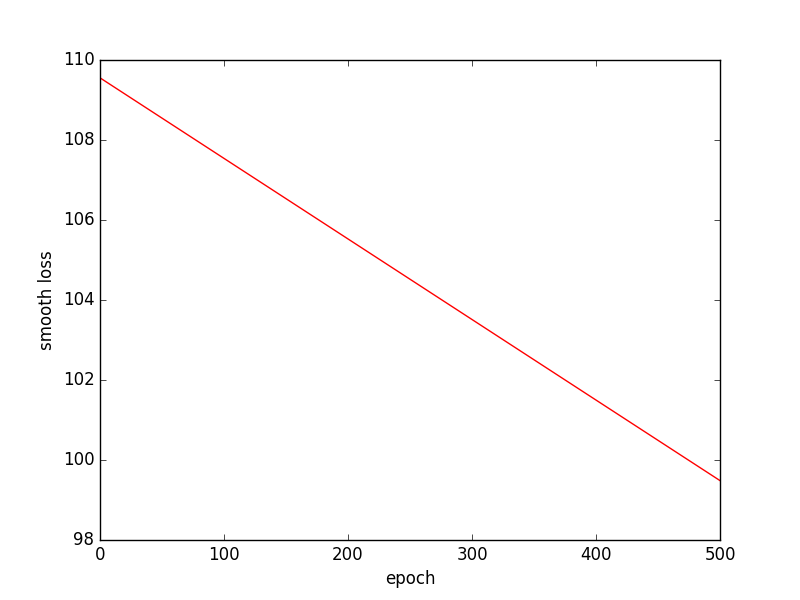
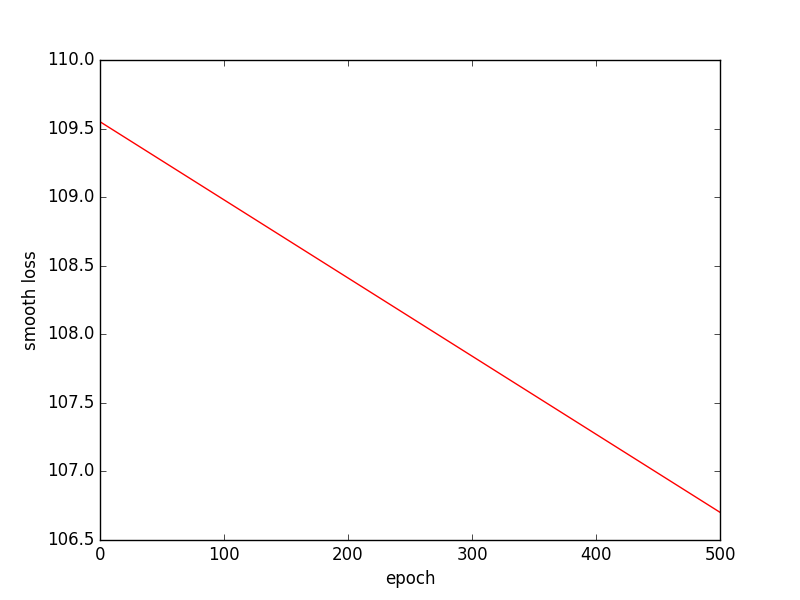
NEW

diff --git a/assignment4.py b/assignment4.py
@@ -1,5 +1,6 @@
 import numpy as np
 import matplotlib.pyplot as plt
+import time
 # IMPORT DATA IS D * 1
 with open('goblet_book.txt','r') as f:
     data = f.read()
@@ -7,6 +8,7 @@ with open('goblet_book.txt','r') as f:
 m = 100
 d = 80
 MAX_EPOCH = 100
+
 def give_dictionary(data):
     dictionary = {}
     inverse_dictionary = {}
@@ -18,25 +20,35 @@ def give_dictionary(data):
         inverse_dictionary[value] = key
     return dictionary, inverse_dictionary
 
-def one_hot(dictionary, data, start, Parameters):  # Will not give the whole one-hoted list 80 * 1100000!
+def one_hot_label(dictionary, data, Parameters):  # Will not give the whole one-hoted list 80 * 1100000!
     len_dictionary = len(dictionary)
-    one_hot_label_x = np.zeros([len_dictionary, Parameters.seq_len])
-    one_hot_label_y = np.zeros([len_dictionary, Parameters.seq_len])
+    one_hot_label_x = np.zeros([len_dictionary, len(list(data))-1])
+    one_hot_label_y = np.zeros([len_dictionary, len(list(data))-1])
     data = list(data)
-    for i in range(start, start + Parameters.seq_len):
-        value = dictionary[data[i]]
-        one_hot_label_x[int(value), i-start] = 1
-    for j in range(start+1, start+Parameters.seq_len + 1):
-        value = dictionary[data[j]]
-        one_hot_label_y[int(value), j-start-1] = 1
-    return one_hot_label_x,  one_hot_label_y, len_dictionary
+    for i in range(len(list(data))-1):
+        value_x = dictionary[data[i]]
+        one_hot_label_x[int(value_x), i] = 1
+        value = dictionary[data[i+1]]
+        one_hot_label_y[int(value), i] = 1
+    return one_hot_label_x,  one_hot_label_y
+
+def one_hot(one_hot_label_x, one_hot_label_y, start, Parameters):
+    if start + Parameters.seq_len > np.shape(one_hot_label_x)[1]:
+        start = np.shape(one_hot_label_x) - Parameters.seq_len
+    one_hot_label_x_part = one_hot_label_x[:,start:start + Parameters.seq_len]
+    one_hot_label_y_part = one_hot_label_y[:,start:start + Parameters.seq_len]
+    return one_hot_label_x_part, one_hot_label_y_part
+
 
 
 # define initial parameters
 def initialization(m,d):
+    # W = np.random.normal(0,1,[m,m]) * 0.01
     W = np.random.rand(m,m) * 0.01
     b = np.zeros([m,1])
+    # U = np.random.normal(0,1,[m,d]) * 0.01
     U = np.random.rand(m,d) * 0.01
+    # V = np.random.normal(0,1,[d,m]) * 0.01
     V = np.random.rand(d,m) * 0.01
     C = np.zeros([d,1])
     return W, b, U, V, C
@@ -115,7 +127,7 @@ class Changable_parameters(object):
                 Parameters.h[:,i] = np.tanh(Parameters.a[:,i])
                 Parameters.o[:,i] = np.reshape(np.dot(self.V, np.reshape(Parameters.h[:,i],[-1,1])) + self.C, d)
                 Parameters.p[:,i] = softmax(Parameters.o[:,i])
-        Parameters.h0 = Parameters.h[:,Parameters.seq_len-1]
+
         return Parameters
 
     def Compute_loss(self, Parameters, Y):
@@ -148,18 +160,22 @@ class Changable_parameters(object):
         for i in range(Parameters.seq_len)[::-1]:
             if i == Parameters.seq_len - 1:
                 Gradient.grad_h[:,i] = np.dot(Gradient.grad_o[i,:].T, Changable.V)
-                Gradient.grad_a[:,i] = Gradient.grad_h[:,i] * (1 - np.tanh(Parameters.a[:,i]) * np.tanh(Parameters.a[:,i]))
+                Gradient.grad_a[:,i] = Gradient.grad_h[:,i] * (1 - np.power(np.tanh(Parameters.a[:,i]),2))
+                Gradient.grad_b = Gradient.grad_b + np.reshape(Gradient.grad_a[:,i],[m,1])
+                Gradient.grad_U = Gradient.grad_U + np.reshape(Gradient.grad_a[:,i], [m,1]) * np.reshape(X[:,i],[1,d])
             else:
                 Gradient.grad_h[:,i] = np.dot(Gradient.grad_o[i,:].T, Changable.V) + np.dot(Changable.W ,Gradient.grad_a[:,i+1])
                 Gradient.grad_a[:,i] = Gradient.grad_h[:,i] * (1 - np.power(np.tanh(Parameters.a[:,i]),2))
+                Gradient.grad_b = Gradient.grad_b + np.reshape(Gradient.grad_a[:,i],[m,1])
+                Gradient.grad_U = Gradient.grad_U + np.reshape(Gradient.grad_a[:,i], [m,1]) * np.reshape(X[:,i],[1,d])
+                Gradient.grad_W = Gradient.grad_W + Gradient.grad_h[:,i] * Gradient.grad_a[:,i+1]
 
-        H_inter = Parameters.h
-        H_inter = np.delete(H_inter, Parameters.seq_len-1, 1)
-        H_inter = np.c_[np.reshape(Parameters.h0,[m,1]), H_inter]
-
-        Gradient.grad_W = np.dot(Gradient.grad_a, H_inter.T)
-        Gradient.grad_U = np.dot(Gradient.grad_a, X.T)
-        Gradient.grad_b = np.reshape(np.sum(Gradient.grad_a,1), [m,1])
+        # H_inter = Parameters.h
+        # H_inter = np.delete(H_inter, Parameters.seq_len-1, 1)
+        # H_inter = np.c_[np.reshape(Parameters.h0,[m,1]), H_inter]
+        # Gradient.grad_W = np.dot(Gradient.grad_a, H_inter.T)
+        # Gradient.grad_U = np.dot(Gradient.grad_a, X.T)
+        # Gradient.grad_b = np.reshape(np.sum(Gradient.grad_a,1), [m,1])
         Gradient.grad_c = np.reshape(np.sum(Gradient.grad_o,0), [-1,1])
         Gradient.grad_o = Gradient.grad_o.T
         return Gradient
@@ -189,28 +205,28 @@ class Changable_parameters(object):
                     Parameters.h[:,i] = np.tanh(Parameters.a[:,i])
                     Parameters.o[:,i] = np.reshape(np.dot(self.V, np.reshape(Parameters.h[:,i],[-1,1])) + self.C, d)
                     Parameters.p[:,i] = softmax(Parameters.o[:,i])
-            Parameters.h0 = Parameters.h[:,Parameters.seq_len-1]
+
             return Parameters
 
-        grad_V = np.zeros(np.shape(self.V))
-        for i in range(self.V.shape[0]):
-            for j in range(self.V.shape[1]):
+        grad_W = np.zeros(np.shape(self.W))
+        for i in range(self.W.shape[0]):
+            for j in range(self.W.shape[1]):
                 self_try = self
-                self_try.V[i][j] = self.V[i][j]-0.000001
+                self_try.W[i][j] = self.W[i][j]-0.0001
                 Parameters = Compute_P(self_try, Parameters, X)
                 loss_1 = Compute_loss(self_try, Parameters, Y)
-                self.V[i][j] += 0.000001
-                self_try.V[i][j] = self.V[i][j] + 0.000001
+                self.W[i][j] += 0.0001
+                self_try.W[i][j] = self.W[i][j] + 0.0001
                 Parameters = Compute_P(self_try, Parameters, X)
                 loss_2 = Compute_loss(self_try, Parameters, Y)
-                grad_V[i][j] = (loss_2 - loss_1) / 0.000002
+                grad_W[i][j] = (loss_2 - loss_1) / 0.0002
 
-        return grad_V
+        return grad_W
 
 
 
 def train(Changable, Parameters, data, dictionary, inverse_dictionary):
-
+    one_hot_label_x, one_hot_label_y = one_hot_label(dictionary, data, Parameters)
     train_step_in_a_epoch = int(len(list(data))/Parameters.seq_len)
     smooth_loss = 0
     SMOOTH_LOSS = []
@@ -219,21 +235,30 @@ def train(Changable, Parameters, data, dictionary, inverse_dictionary):
         for i in range(train_step_in_a_epoch):
             if start + Parameters.seq_len + 1 > len(list(data)):
                 start = len(list(data)) - Parameters.seq_len - 1
-            X, Y, d = one_hot(dictionary, data, start, Parameters)
+
+            X, Y = one_hot(one_hot_label_x, one_hot_label_y, start, Parameters)
             start = start + Parameters.seq_len
             Parameters = Changable.Compute_P(Parameters, X)
             loss = Changable.Compute_loss(Parameters, Y)
 
-
             if i == 0 and epoch == 0:
                 smooth_loss = loss
-            smooth_loss = 0.999*smooth_loss + 0.001*loss
-            if i % 500 == 0:
+            smooth_loss = 0.999 * smooth_loss + 0.001 * loss
+            if i % 200 == 0:
                 print("EPOCH : ", epoch, "STEP :", i)
                 print(smooth_loss)
                 SMOOTH_LOSS.append(smooth_loss)
+
             Gradient = Gradient_class(Changable, Parameters)
             Gradient = Changable.Compute_Gradient(Gradient, Parameters, Changable, X, Y)
+
+            # grad_U = Changable.Numerical_Gradient(Parameters, X, Y)
+            # grad_U_an = Gradient.grad_W
+            # print(grad_U)
+            # print(grad_U_an)
+            # print((grad_U - grad_U_an) / grad_U)
+            # exit()
+
             if i % 10000 == 0:
                 Text = []
                 Character = []
@@ -265,24 +290,24 @@ def train(Changable, Parameters, data, dictionary, inverse_dictionary):
             Changable, W_after, V_after, U_after, b_after, C_after  = Gradient.AdamGradOptimizer(Changable,Parameters,W_before, V_before, U_before, b_before, C_before)
     return Changable, SMOOTH_LOSS
 
+
+
 dictionary, inverse_dictionary = give_dictionary(data)
 Parameters = Inter_parameters(m,d)
 W,b,U,V,C = initialization(m,d)
 Changable = Changable_parameters(W,b,U,V,C)
-
 Changable, SMOOTH_LOSS =  train(Changable, Parameters, data, dictionary, inverse_dictionary)
 para_dic = {}
 X_axis = range(0, 500*len(SMOOTH_LOSS), 500)
-
 plt.figure()
-
 plt.xlabel("epoch")
 plt.ylabel("smooth loss")
 plt.plot(X_axis,SMOOTH_LOSS,'r')
 plt.savefig('smooth_loss.png')
 plt.legend()
-
 plt.show()
+
+
 
 # prediction = Changable.Compute_prediction(Parameters)
 
